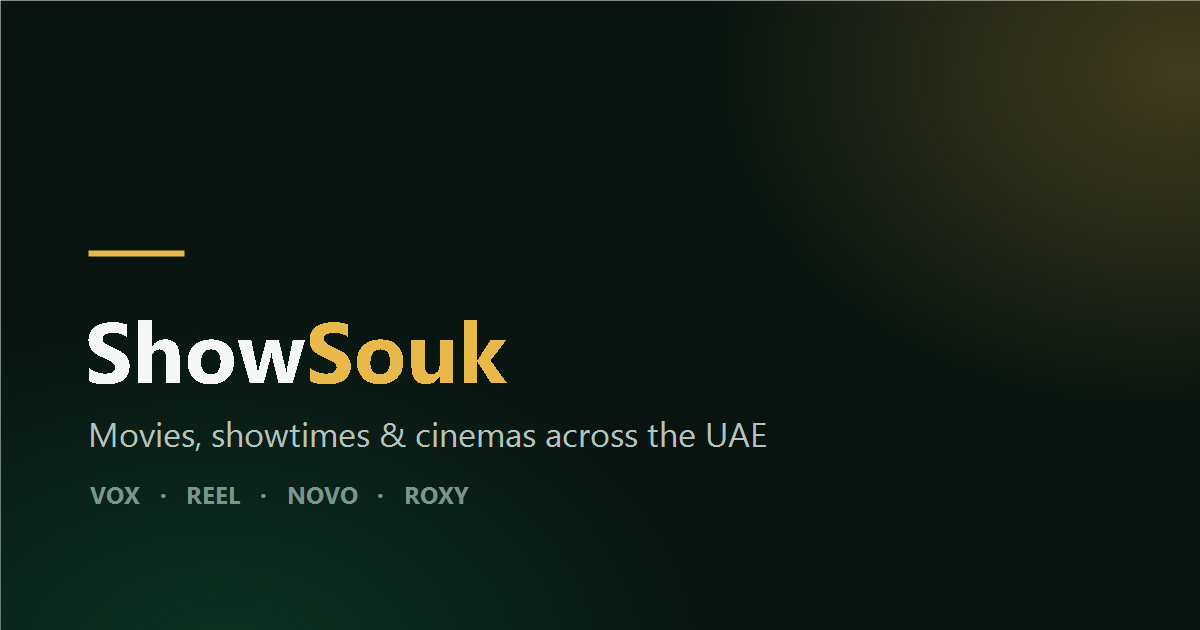
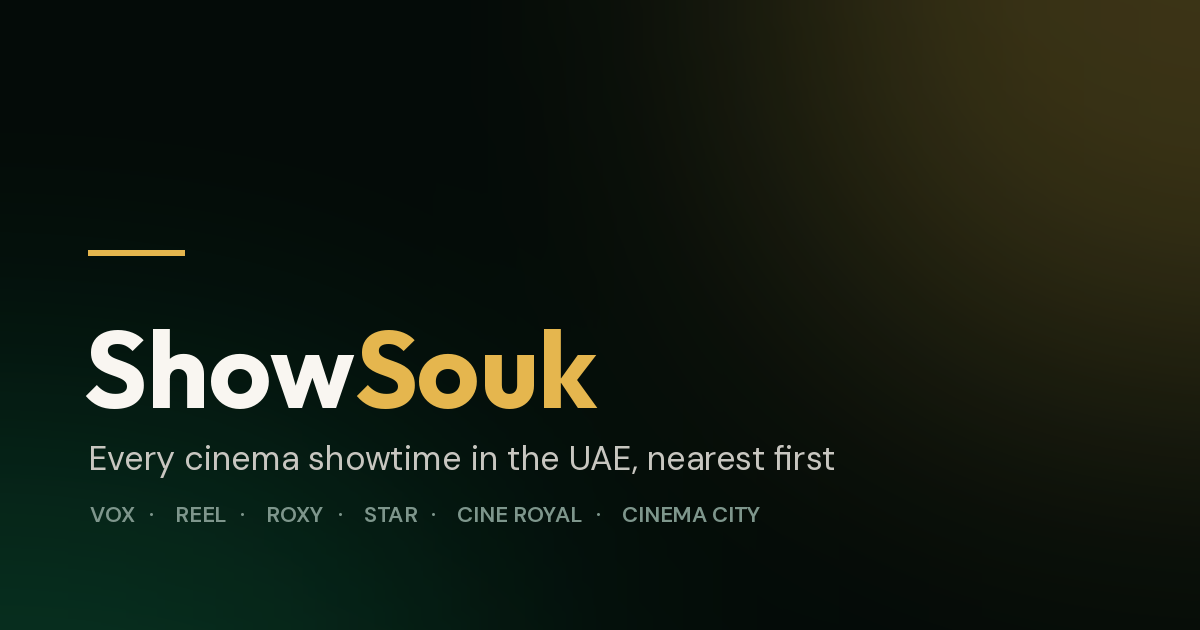
WhatsApp share button, film artwork link previews, og-image without Novo
Claude-Session: https://claude.ai/code/session_01DzftRyHttPTXFq1WFaXDxx

Changed region(s): [[0.0617, 0.5127, 0.7092, 0.8444], [0.5242, 0.7841, 0.6167, 0.8444], [0.0925, 0.3921, 0.1542, 0.4222]]

diff --git a/src/routes/movie.$slug.tsx b/src/routes/movie.$slug.tsx
@@ -40,6 +40,7 @@ import { venueBlocks } from "@/lib/showtimes";
 import { useUserLocation } from "@/hooks/useUserLocation";
 import { NewPill } from "@/components/film-block-header";
 import { browsePageHeaders } from "@/lib/cache-headers";
+import { ShareFilmButton } from "@/components/share-film";
 
 /**
  * Cities this film actually plays in, busiest first.
@@ -150,6 +151,23 @@ export const Route = createFileRoute("/movie/$slug")({
     const cities = citiesFor(loaderData?.films);
     const chains = [...new Set((loaderData?.films ?? []).map((film) => film.cinema))];
     const where = cities.length > 0 ? cities.slice(0, 2).join(" & ") : "the UAE";
+    // Link-preview image (WhatsApp, Instagram DMs, X). Only TMDB artwork,
+    // whose sizes are fixed by the URL, so width/height are true: the root's
+    // 1200x630 would otherwise be inherited and wrong. Backdrop first (16:9,
+    // w1280 = 1280x720, the large card); then the poster (w500 = 500x750, the
+    // compact card); else the site-wide image stands.
+    const films = loaderData?.films ?? [];
+    const backdrop = films
+      .map((film) => film.backdrop_url)
+      .find((url): url is string => !!url && url.startsWith("https://image.tmdb.org/t/p/w1280/"));
+    const poster = films
+      .map((film) => film.poster_url)
+      .find((url): url is string => !!url && url.startsWith("https://image.tmdb.org/t/p/w500/"));
+    const preview = backdrop
+      ? { url: backdrop, width: "1280", height: "720", card: "summary_large_image", alt: `${name}` }
+      : poster
+        ? { url: poster, width: "500", height: "750", card: "summary", alt: `${name} poster` }
+        : null;
     return {
       meta: [
         { title: titleTag(name, cities) },
@@ -161,7 +179,17 @@ export const Route = createFileRoute("/movie/$slug")({
         },
         { property: "og:type", content: "video.movie" },
         { property: "og:url", content: canonical },
-        { name: "twitter:card", content: "summary_large_image" },
+        // The film's own artwork is what a WhatsApp share should show; the
+        // site-wide card says nothing about which film was sent.
+        ...(preview
+          ? [
+              { property: "og:image", content: preview.url },
+              { property: "og:image:width", content: preview.width },
+              { property: "og:image:height", content: preview.height },
+              { property: "og:image:alt", content: preview.alt },
+              { name: "twitter:card", content: preview.card },
+            ]
+          : [{ name: "twitter:card", content: "summary_large_image" }]),
       ],
       links: [{ rel: "canonical", href: canonical }],
     };
@@ -380,6 +408,7 @@ function MovieShowtimesPage() {
                 "Now showing in UAE cinemas"}
             </p>
           </div>
+          {primary ? <ShareFilmButton title={primary.title} slug={slug} /> : null}
         </div>
       </div>
 

diff --git a/src/components/share-film.tsx b/src/components/share-film.tsx
@@ -1,0 +1,37 @@
+/**
+ * share-film.tsx — "Share on WhatsApp" for a film page.
+ *
+ * WhatsApp is how films get chosen in UAE group chats, so the share goes there
+ * directly rather than through a generic share sheet. The link is tagged
+ * (utm_source=whatsapp, medium=share) so visits it brings show up as their own
+ * line on /admin/marketing, and the press itself is counted as a `share`.
+ *
+ * wa.me opens the app on phones and WhatsApp Web on desktop. The preview card
+ * the recipient sees comes from the page's og:image, which is the poster.
+ */
+import { MessageCircle } from "lucide-react";
+
+import { trackShare } from "@/lib/attribution";
+
+export function shareText(title: string, slug: string): string {
+  const url = `https://www.showsouk.com/movie/${slug}?utm_source=whatsapp&utm_medium=share&utm_campaign=film-share`;
+  return `${title}: showtimes at every UAE cinema, nearest first\n${url}`;
+}
+
+export function ShareFilmButton({ title, slug }: { title: string; slug: string }) {
+  const href = `https://wa.me/?text=${encodeURIComponent(shareText(title, slug))}`;
+  return (
+    <a
+      href={href}
+      target="_blank"
+      rel="noopener noreferrer"
+      onClick={() => trackShare(slug, "whatsapp")}
+      aria-label={`Share ${title} on WhatsApp`}
+      className="cinematic-control ml-auto inline-flex shrink-0 items-center gap-1.5 rounded-full border border-border/70 px-3 py-1.5 text-sm font-medium text-foreground transition-colors hover:border-primary-ink/70 hover:text-primary-ink"
+    >
+      <MessageCircle className="size-4" aria-hidden="true" />
+      <span className="hidden sm:inline">Share on WhatsApp</span>
+      <span className="sm:hidden">Share</span>
+    </a>
+  );
+}

diff --git a/src/lib/attribution.ts b/src/lib/attribution.ts
@@ -152,3 +152,21 @@ export function trackBookingTap(film: string, cinema: string, venue: string) {
     device: attr.device,
   });
 }
+
+/** A share button was pressed (channel: "whatsapp", "native", ...). */
+export function trackShare(film: string, channel: string) {
+  if (shouldSkip()) return;
+  const attr = read();
+  if (!attr) return;
+  send({
+    kind: "share",
+    session_id: attr.session_id,
+    path: window.location.pathname,
+    film,
+    venue: channel,
+    source: attr.source,
+    medium: attr.medium,
+    campaign: attr.campaign,
+    device: attr.device,
+  });
+}
